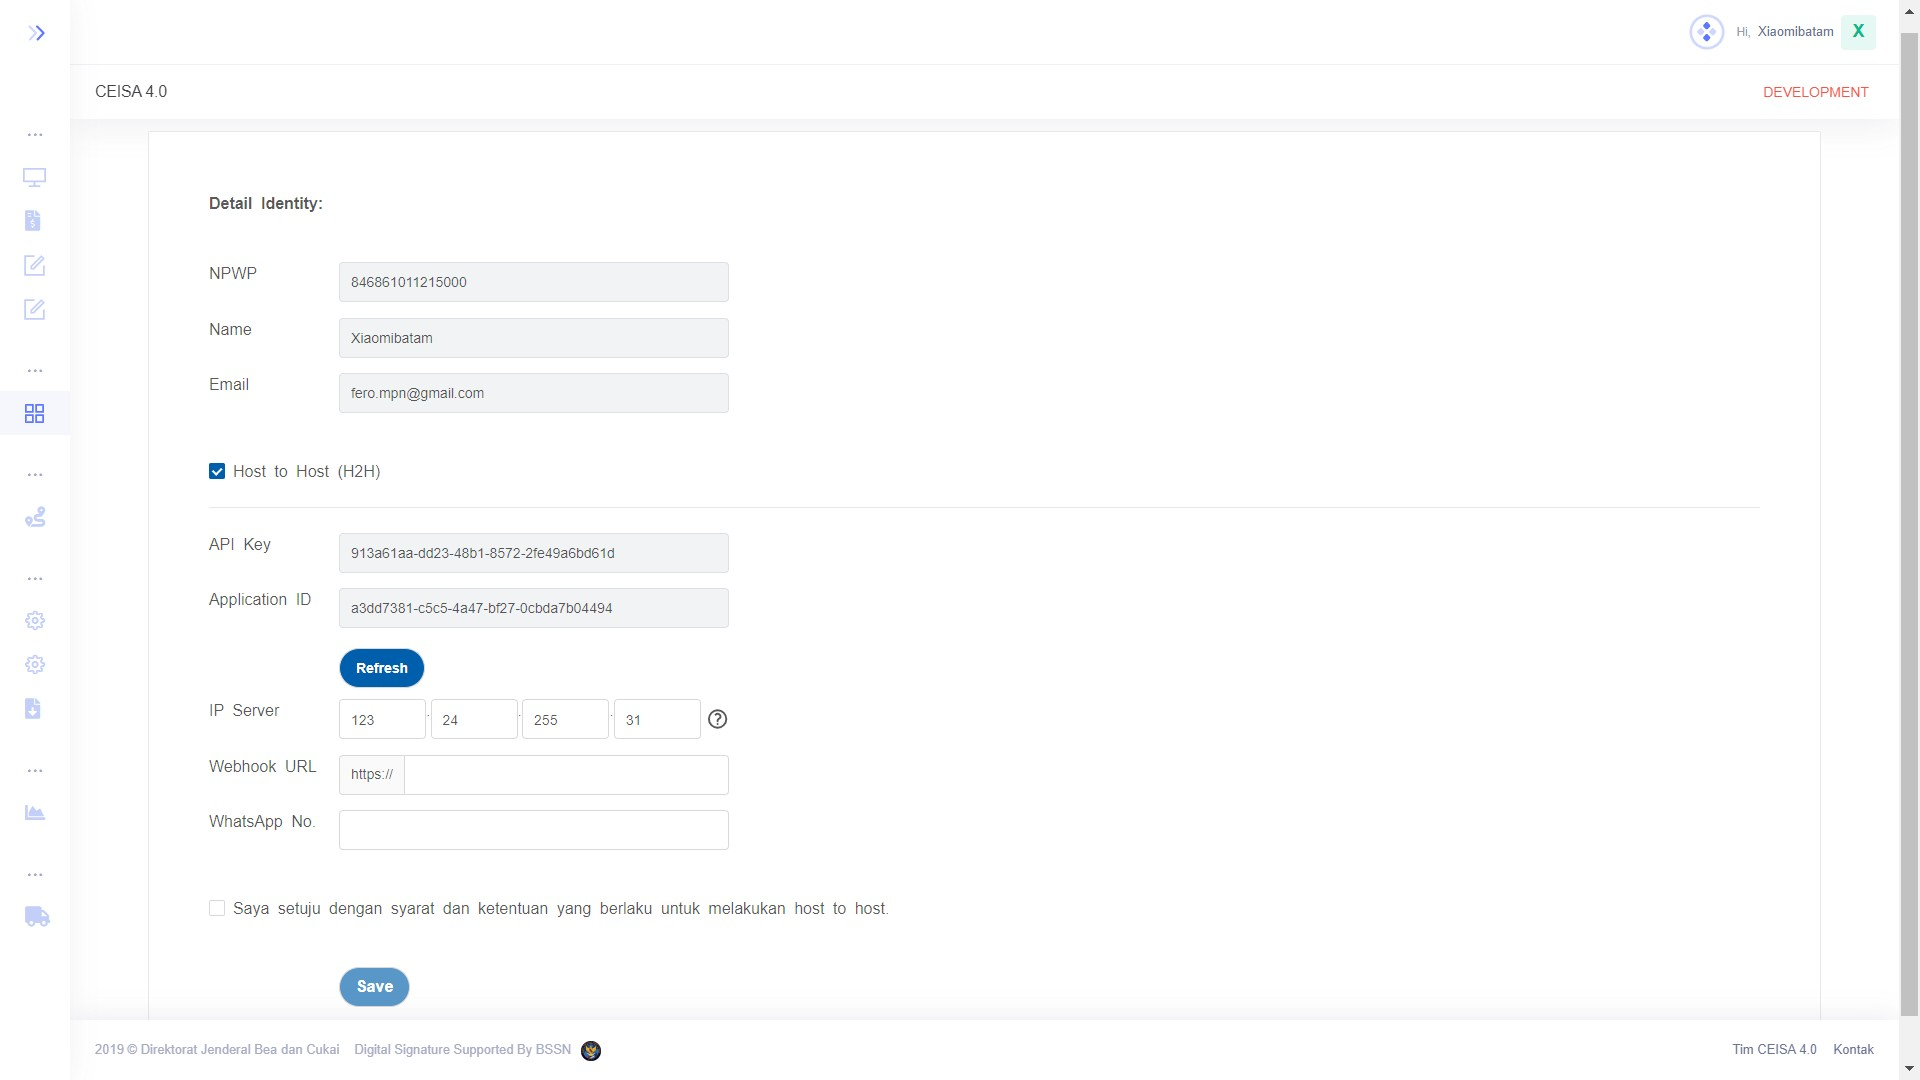
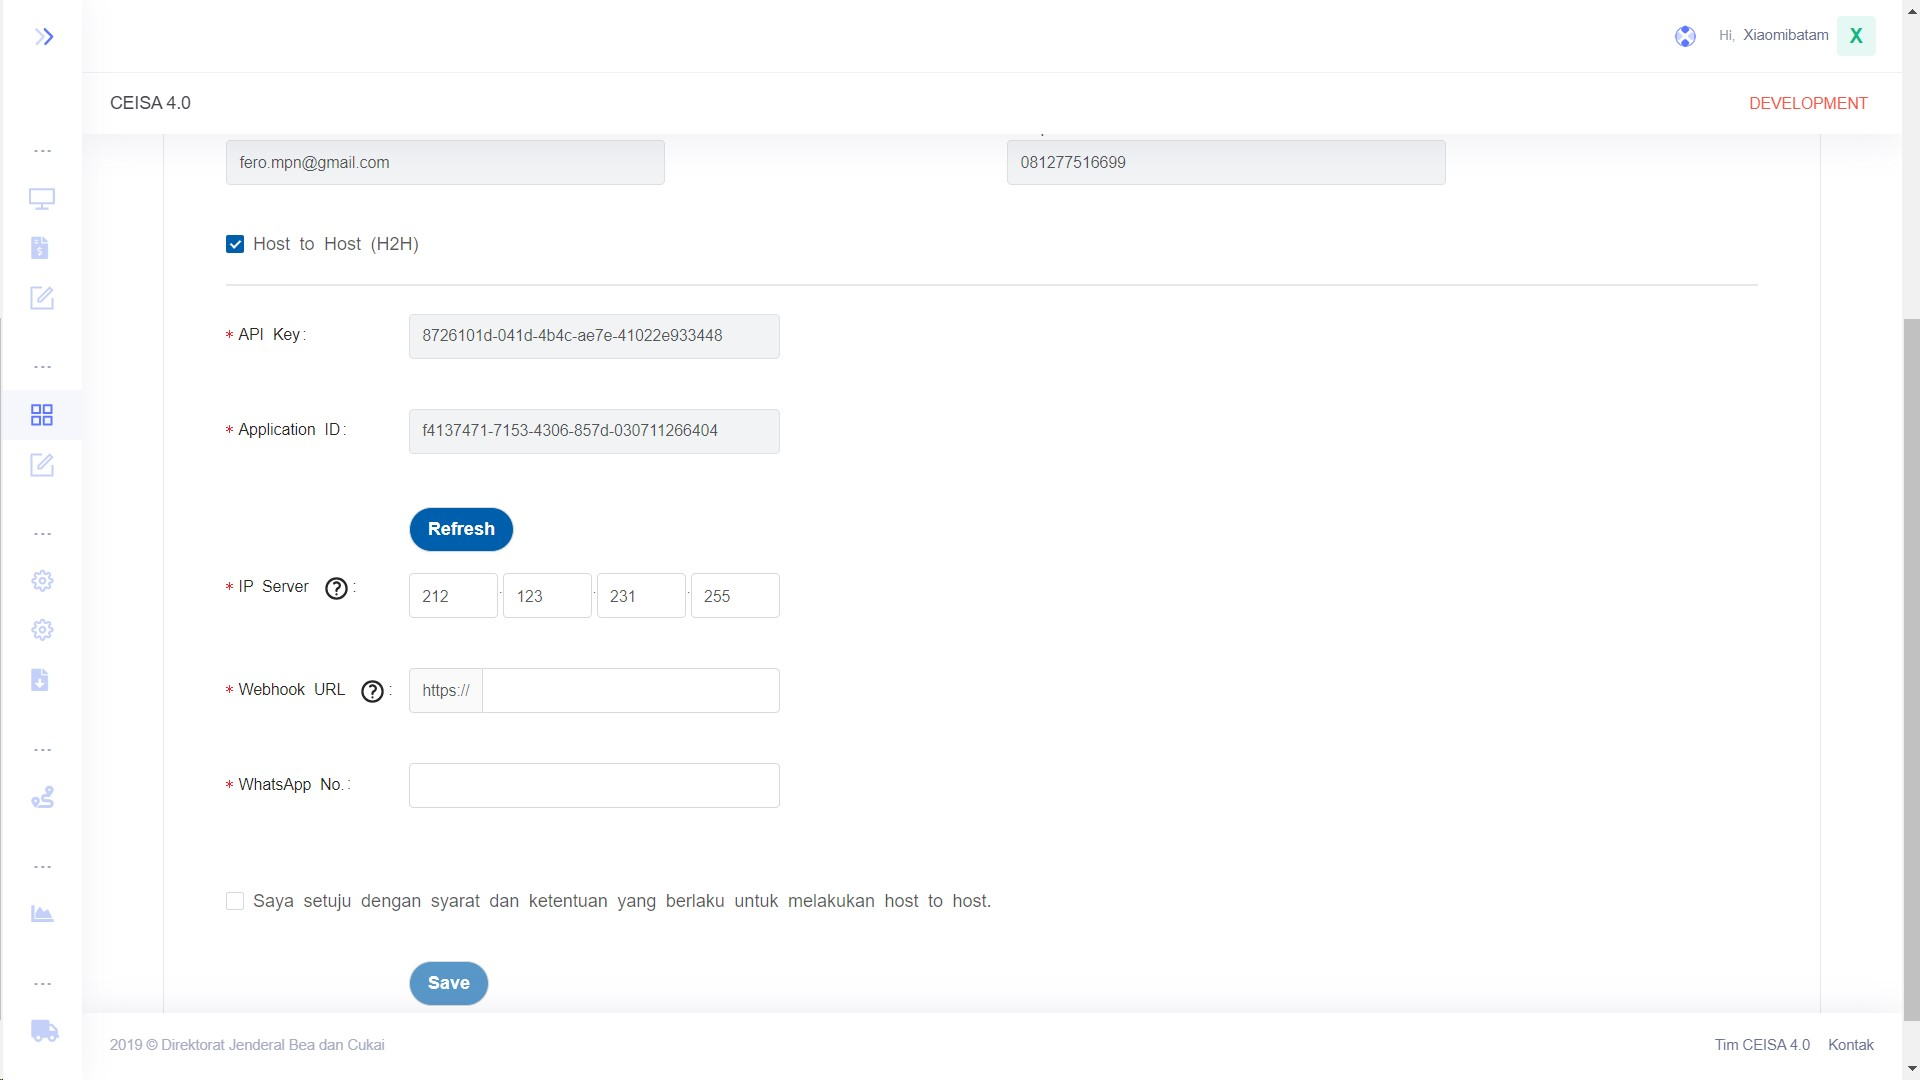
update based on latest update project

diff --git a/site/collections/_projects/2023-10-04-webhook.md b/site/collections/_projects/2023-10-04-webhook.md
@@ -10,7 +10,7 @@ The works I did in this Webhook feature:
 
 ![](/uploads/webhook-h2h-unchecked.jpg){: width="1893" height="749"}
 
-Get NPWP, Name, and Email from logged in user in core project.
+Get Detail Identity from logged in user in core project.
 
 ![](/uploads/webhook-h2h-checked.jpg){: width="1893" height="749"}
 
@@ -20,19 +20,37 @@ Hide and show further form based on checkbox clicked.
 
 ![](/uploads/webhook-generate-done.jpg){: width="1903" height="733"}
 
-Show loading effect on button when the button is clicked and show Refresh text on button once Application ID and API Key is generated. Generate text on button will only appear when user never click Generate button before. Once user have Application ID generated, the text on button will be changed to Refresh.
+Show loading effect on Generate button when the button is clicked and show another text (Refresh) on button once Application ID and API Key is generated. Generate text on button will only appear when user never click Generate button before. Once user have Application ID generated, the text on button will be changed to Refresh.
+
+![](/uploads/webhook-refresh-clicked.jpg){: width="1903" height="733"}
+
+![](/uploads/webhook-refresh-done.jpg){: width="1903" height="733"}
+
+Refresh button only will regenerate API Key, Application ID only could be generated once.
 
 ![](/uploads/webhook-ipserver-outoflimit.jpg){: width="1899" height="903"}
 
 ![](/uploads/webhook-ipserver-limit.jpg){: width="1899" height="893"}
 
-The maximal limit number for IP Server input is 255, so when user type more than 255, the input will be changed to 255 once the input is not focused (user click somewhere else with the cursor).
+The maximal digit on each input is only 3 digits and the maximal limit number for IP Server input is 255, so when user type more than 255, the input will be changed to 255 once the input is not focused (user click somewhere else with the cursor).
 
-![](/uploads/webhook-whatsapp-nonumber-input.jpg){: width="1899" height="893"}
+![](/uploads/webhook-whatsapp-protocolscheme.jpg){: width="1899" height="893"}
 
-![](/uploads/webhook-whatsapp-number-input.jpg){: width="1899" height="893"}
+If user type Webhook URL with protocol/scheme (https://), a validation error will show up below the input column, this is a protection to prevent double protocol/scheme in database.
 
-WhatsApp No. input column won't allow user to type other than number, so when any character or alphabet is typed, there will be a red warning written below the input column, it will be removed whenever user type any number again or delete any number.
+![](/uploads/webhook-whatsapp-valid-number.jpg){: width="1899" height="893"}
+
+WhatsApp No. input column won't allow user to type other than number, so when any character or alphabet is typed, there will be a validation error below the input column, it will be removed whenever user type any number again or delete any number.
+
+![](/uploads/webhook-whatsapp-underminimal.jpg){: width="1899" height="890"}
+
+![](/uploads/webhook-whatsapp-meetminimal.jpg){: width="1899" height="890"}
+
+When user type WhatsApp No. still less than minimal (10 digits), there will be a validation error below the column that will be removed when user have already typed WhatsApp No. which meet with the minimal limit. This is a bit protection to prevent user send invalid number.
+
+![](/uploads/webhook-whatsapp-abovelimit.jpg){: width="1899" height="890"}
+
+When user type WhatsApp No. above of maximal limit (12 digits), it will not show whatever the user typed, so it will stop showing after the digits are already 12 length. This is also a bit protection to prevent user send inactive number.
 
 ![](/uploads/webhook-save-termcond-checked.jpg){: width="1904" height="883"}
 
@@ -42,37 +60,13 @@ When the checkbox of Term & Condition is clicked, the Save button will be enable
 
 When the Save button is clicked, there will be pop up confirmation to protect any accidental click from user.
 
-![](/uploads/webhook-save-whatsapp-underminimal.jpg){: width="1899" height="890"}
-
-When user confirmed Save when the WhatsApp No. has less than minimal (10 digits), it will cancel save process, make the input enabled and also show red warning written below the column. This is a bit protection to prevent user send inactive number.
-
-![](/uploads/webhook-whatsapp-abovelimit.jpg){: width="1899" height="890"}
-
-When user type WhatsApp No. above of maximal limit (12 digits), it will not let user to input more than the maximal limit, so it will stop when the digits are already 12 length. This is also a bit protection to prevent user send inactive number.
-
-![](/uploads/webhook-refresh-clicked-inputenabled.jpg){: width="1899" height="890"}
-
-![](/uploads/webhook-refresh-done-inputenabled.jpg){: width="1899" height="890"}
-
-User is able to click Refresh button when the input is enabled, this is also same for Generate. Refresh button is made to refresh API Key while the Application ID will stay the same.
-
-![](/uploads/webhook-save-popupconfirm.jpg){: width="1899" height="890"}
-
-Buttons on pop up confirmation also have darker color when it's hovered/clicked, just like Save & Generate/Refresh buttons.
-
 ![](/uploads/webhook-save-confirmed.jpg){: width="1899" height="890"}
 
 When the Save button is confirmed, the Term & Condition checkbox and input columns will be disabled and the text on Save button will be changed to Update.
 
-![](/uploads/webhook-refresh-clicked-inputdisabled.jpg){: width="1899" height="890"}
-
-![](/uploads/webhook-refresh-done-inputdisabled.jpg){: width="1899" height="890"}
-
-User is also able to click Refresh button when the input is disabled.
-
 ![](/uploads/webhook-update-enabled.jpg){: width="1899" height="890"}
 
-When user click Update while the input is disabled, it will make the input is enabled again to be typed.
+When user click Update button while the input is disabled, it will make the input is enabled again to be typed.
 
 ![](/uploads/webhook-update-termcond-checked.jpg){: width="1899" height="890"}
 
@@ -80,9 +74,7 @@ The Term & Condition will also make the Update button enabled just like when it 
 
 ![](/uploads/webhook-update-clicked.jpg){: width="1899" height="890"}
 
-![](/uploads/webhook-update-popupconfirm.jpg){: width="1899" height="890"}
-
-And just like Save button, when the Update button is clicked while the input is enabled, it will show pop up confirmation with buttons that will have darker color when it's hovered/clicked.
+And just like Save button, when the Update button is clicked (while the input is enabled), it will show pop up confirmation.
 
 ![](/uploads/webhook-update-confirmed.jpg){: width="1899" height="890"}
 
@@ -90,7 +82,16 @@ When the Update is confirmed, it will also make Term & Condition checkbox and in
 
 ![](/uploads/webhook-ipserver-tooltip.jpg){: width="1899" height="890"}
 
-There is also a tooltip right after IP Server column, user could hover the question mark to get some information about the IP Server.
+![](/uploads/webhook-webhookurl-tooltip.jpg){: width="1899" height="890"}
+
+There are also tooltips right after IP Server and Webhook URL column that explain each titles.
+
+![](/uploads/webhook-empty-save.jpg){: width="1899" height="890"}
+
+![](/uploads/webhook-all-validation.jpg){: width="1899" height="890"}
+
+When user click save without filling the inputs, there would be validation erros of every input columns since all the input columns are required.
+
 
 > ###### ![](/uploads/information-technology-icon-clipart-1-1-1.png){: width="200" height="200"}
 
